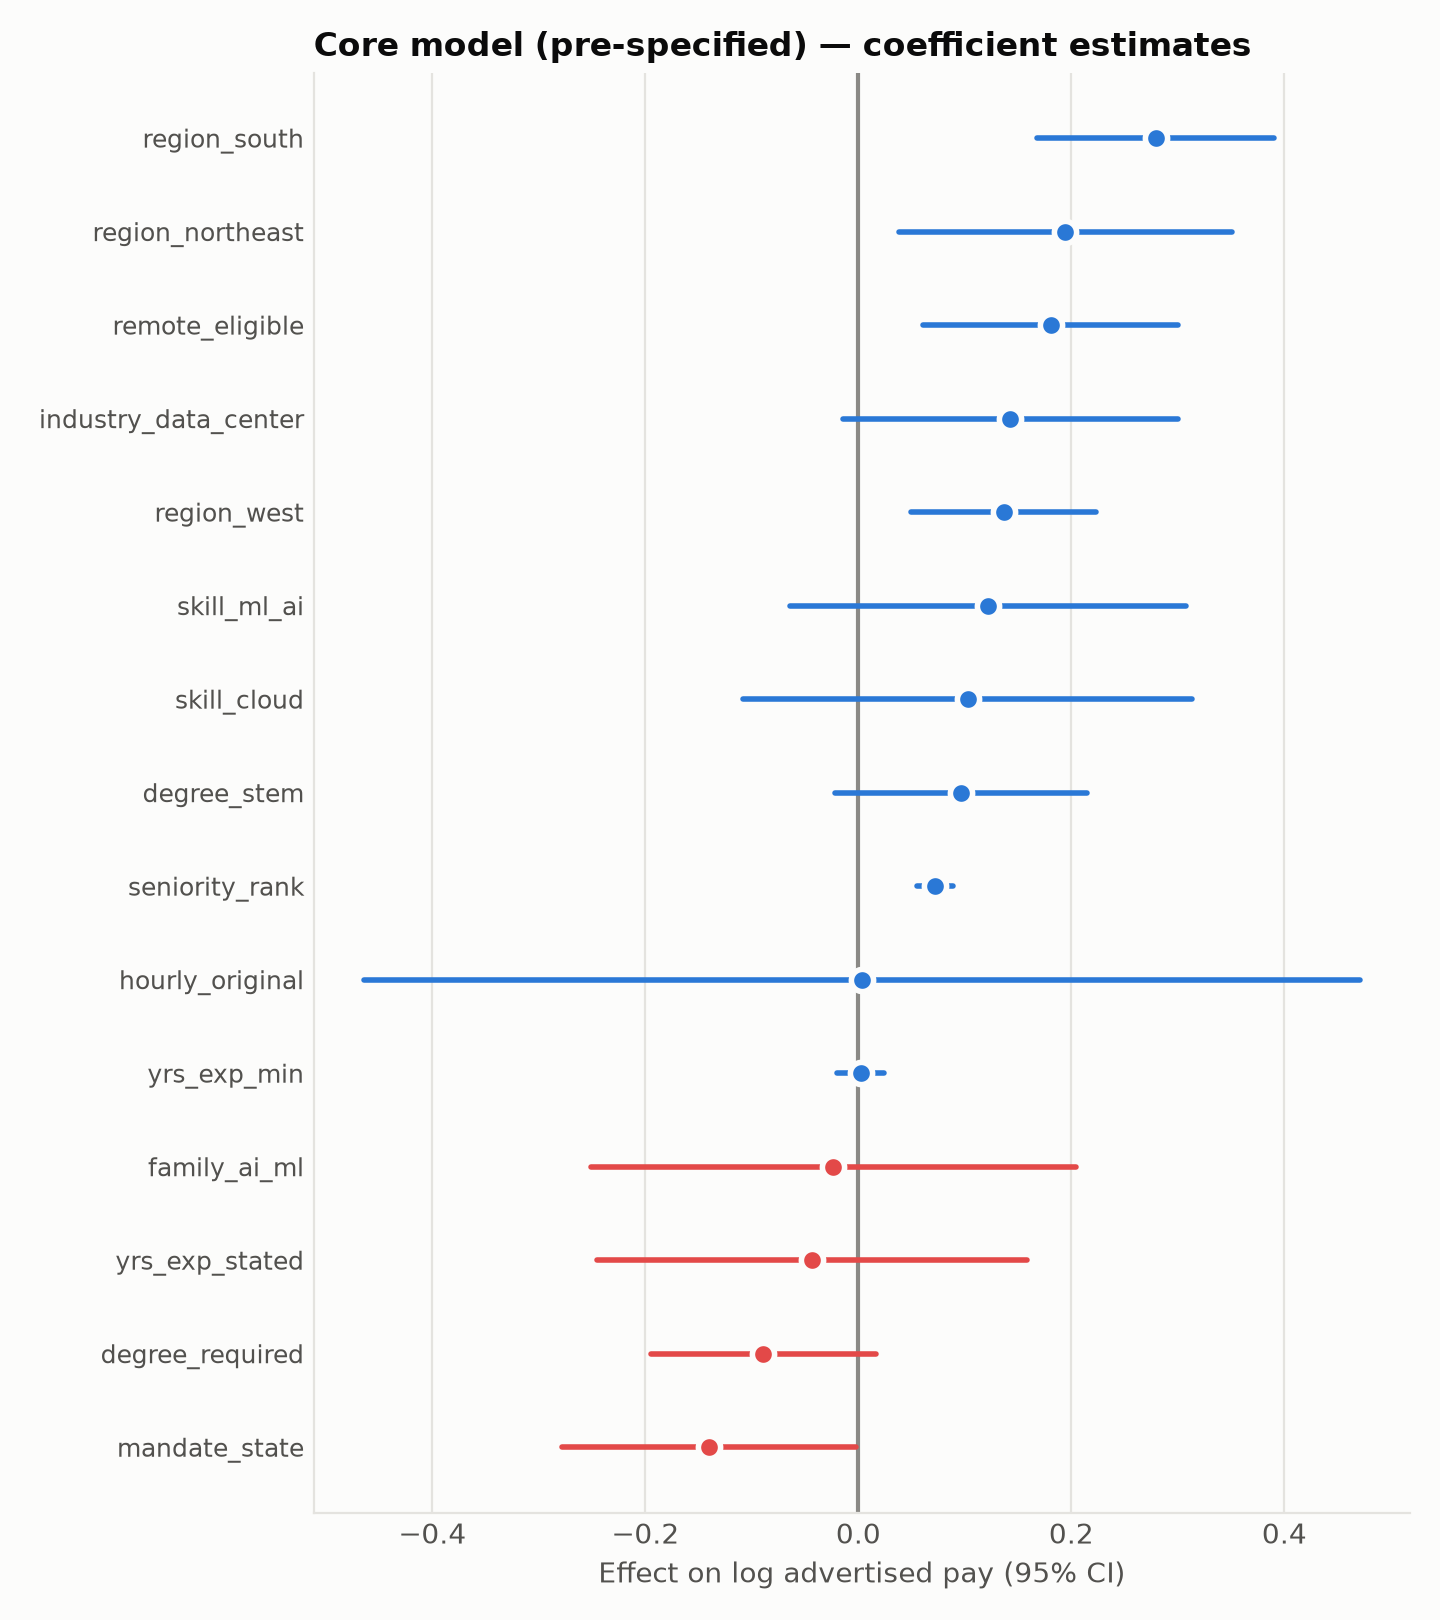
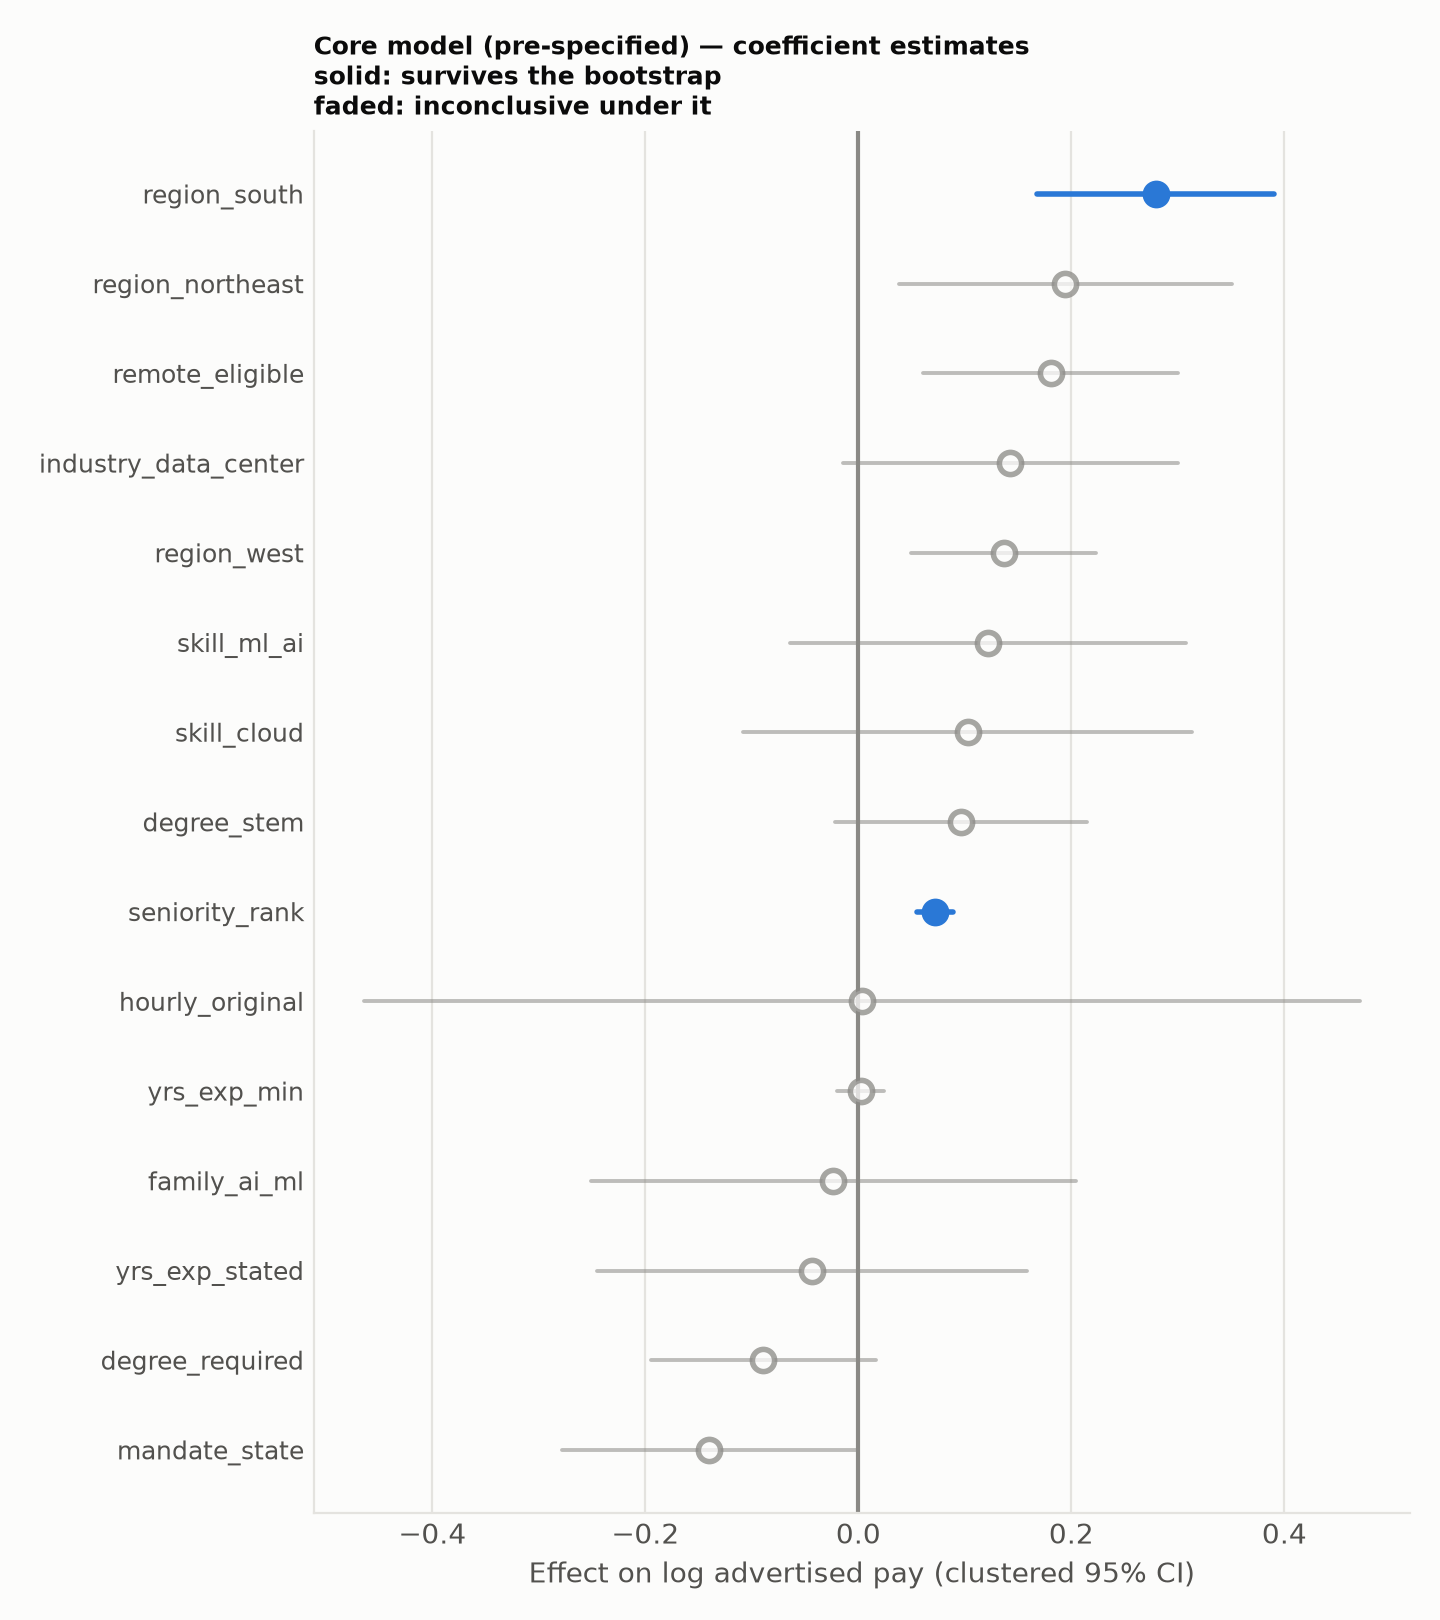
The coefficient figure showed seven findings the study has withdrawn
fig3 plots the clustered 95% intervals. At 25 employer clusters those are
anti-conservative, so seven intervals visibly exclude zero for coefficients the
pre-registered bootstrap cannot distinguish from zero. Anyone reading the
figure alone -- which is what a figure is for -- would take all of them as
results.

That is the third artifact today making the same error in a different medium:
the paper named them in prose, the deck listed them on a slide, and the figure
drew them as intervals clear of the zero line.

Intervals the bootstrap does not support are now drawn muted with a hollow
marker and a greyed label; only survivors are solid. The encoding is in the
title rather than a legend. On the current sample exactly two coefficients are
solid, region_south and seniority_rank, and remote_eligible is correctly faded
because the region-robustness check withdrew it -- the figure reads the same
FRAGILE set the deck and summary do.

I looked at the rendered PNG rather than trusting that it worked, which is how
I caught the subtitle running off the right edge of the axes. qa_slides checks
the deck's geometry and nothing checks a figure's, so nothing but looking would
have found it.

Claude-Session: https://claude.ai/code/session_01KADdq5jx3ioAzRrsZqspwG

diff --git a/scripts/make_figures.py b/scripts/make_figures.py
@@ -114,11 +114,33 @@ def fig_pay_distribution(rows: list[dict]) -> str | None:
     return out.name
 
 
-def fig_coefficients(model: dict) -> str | None:
-    """Signed effects: diverging blue/red around a neutral zero line."""
+def fig_coefficients(model: dict, boot: dict | None = None,
+                     fragile: set | None = None) -> str | None:
+    """Signed effects around a neutral zero line.
+
+    The intervals are the CLUSTERED 95% CIs, and at this cluster count they are
+    anti-conservative: seven of them exclude zero for coefficients the
+    pre-registered wild cluster bootstrap cannot distinguish from zero. A
+    reader looking only at this figure would take those seven as findings,
+    which is the same error the paper and the deck both made today.
+
+    So intervals the bootstrap does not support are drawn muted and hollow,
+    and only the ones that survive it (and the region-robustness check) are
+    drawn solid. The encoding is stated in the title rather than left to a
+    legend nobody reads.
+    """
     items = [(n, c) for n, c in model["coefficients"].items() if n != "const"]
     if not items:
         return None
+    boot = boot or {}
+    fragile = fragile or set()
+
+    def survives(name: str) -> bool:
+        if not boot:
+            return True          # no bootstrap: nothing to distinguish
+        b = boot.get(name) or {}
+        pv = b.get("p_value")
+        return pv is not None and pv < 0.05 and name not in fragile
     items.sort(key=lambda kv: kv[1]["coef"])
     names = [n for n, _ in items]
     coefs = np.array([c["coef"] for _, c in items])
@@ -128,14 +150,28 @@ def fig_coefficients(model: dict) -> str | None:
     fig, ax = plt.subplots(figsize=(7.2, 0.42 * len(items) + 1.8))
     y = np.arange(len(items))
     ax.axvline(0, color=NEUTRAL, linewidth=1.5, zorder=2)
-    for yi, c, l, h in zip(y, coefs, lo, hi):
-        color = POS if c >= 0 else NEG
-        ax.plot([l, h], [yi, yi], color=color, linewidth=2, solid_capstyle="round", zorder=3)
-        ax.plot([c], [yi], "o", color=color, markersize=8,
-                markeredgecolor=SURFACE, markeredgewidth=2, zorder=4)
+    for yi, (name, c, l, h) in enumerate(zip(names, coefs, lo, hi)):
+        ok = survives(name)
+        color = (POS if c >= 0 else NEG) if ok else NEUTRAL
+        ax.plot([l, h], [yi, yi], color=color, linewidth=2 if ok else 1.4,
+                alpha=1.0 if ok else 0.55, solid_capstyle="round", zorder=3)
+        ax.plot([c], [yi], "o", color=color if ok else SURFACE, markersize=8,
+                markeredgecolor=color if ok else NEUTRAL,
+                markeredgewidth=2, alpha=1.0 if ok else 0.75, zorder=4)
     ax.set_yticks(y, [f"{n}" for n in names], fontsize=9)
-    ax.set_xlabel("Effect on log advertised pay (95% CI)")
-    ax.set_title(f"{model['label']} — coefficient estimates")
+    for tick, name in zip(ax.get_yticklabels(), names):
+        if not survives(name):
+            tick.set_color(INK_2)
+    ax.set_xlabel("Effect on log advertised pay (clustered 95% CI)")
+    if boot:
+        # Two short lines. The single long subtitle overflowed the axes to the
+        # right at this figure width, and qa_slides does not check figure
+        # titles, so nothing would have caught it but looking.
+        ax.set_title(f"{model['label']} — coefficient estimates\n"
+                     "solid: survives the bootstrap\n"
+                     "faded: inconclusive under it", fontsize=9)
+    else:
+        ax.set_title(f"{model['label']} — coefficient estimates")
     _clean(ax)
     ax.tick_params(length=0)
     out = FIGS / "fig3_coefficients.png"
@@ -192,8 +228,12 @@ def main() -> int:
     if analysis and analysis.get("status") == "ok":
         model = (analysis.get("models") or {}).get("core")
         if model:
-            (made if (f := fig_coefficients(model)) else skipped).append(
-                f or "fig3_coefficients (no coefficients)")
+            _boot = ((analysis.get("wild_cluster_bootstrap") or {})
+                     .get("by_variable") or {})
+            _fragile = set((analysis.get("region_robustness") or {})
+                           .get("verdicts_changed") or [])
+            (made if (f := fig_coefficients(model, _boot, _fragile))
+             else skipped).append(f or "fig3_coefficients (no coefficients)")
     else:
         skipped.append("fig3_coefficients (no estimated model yet)")
 
